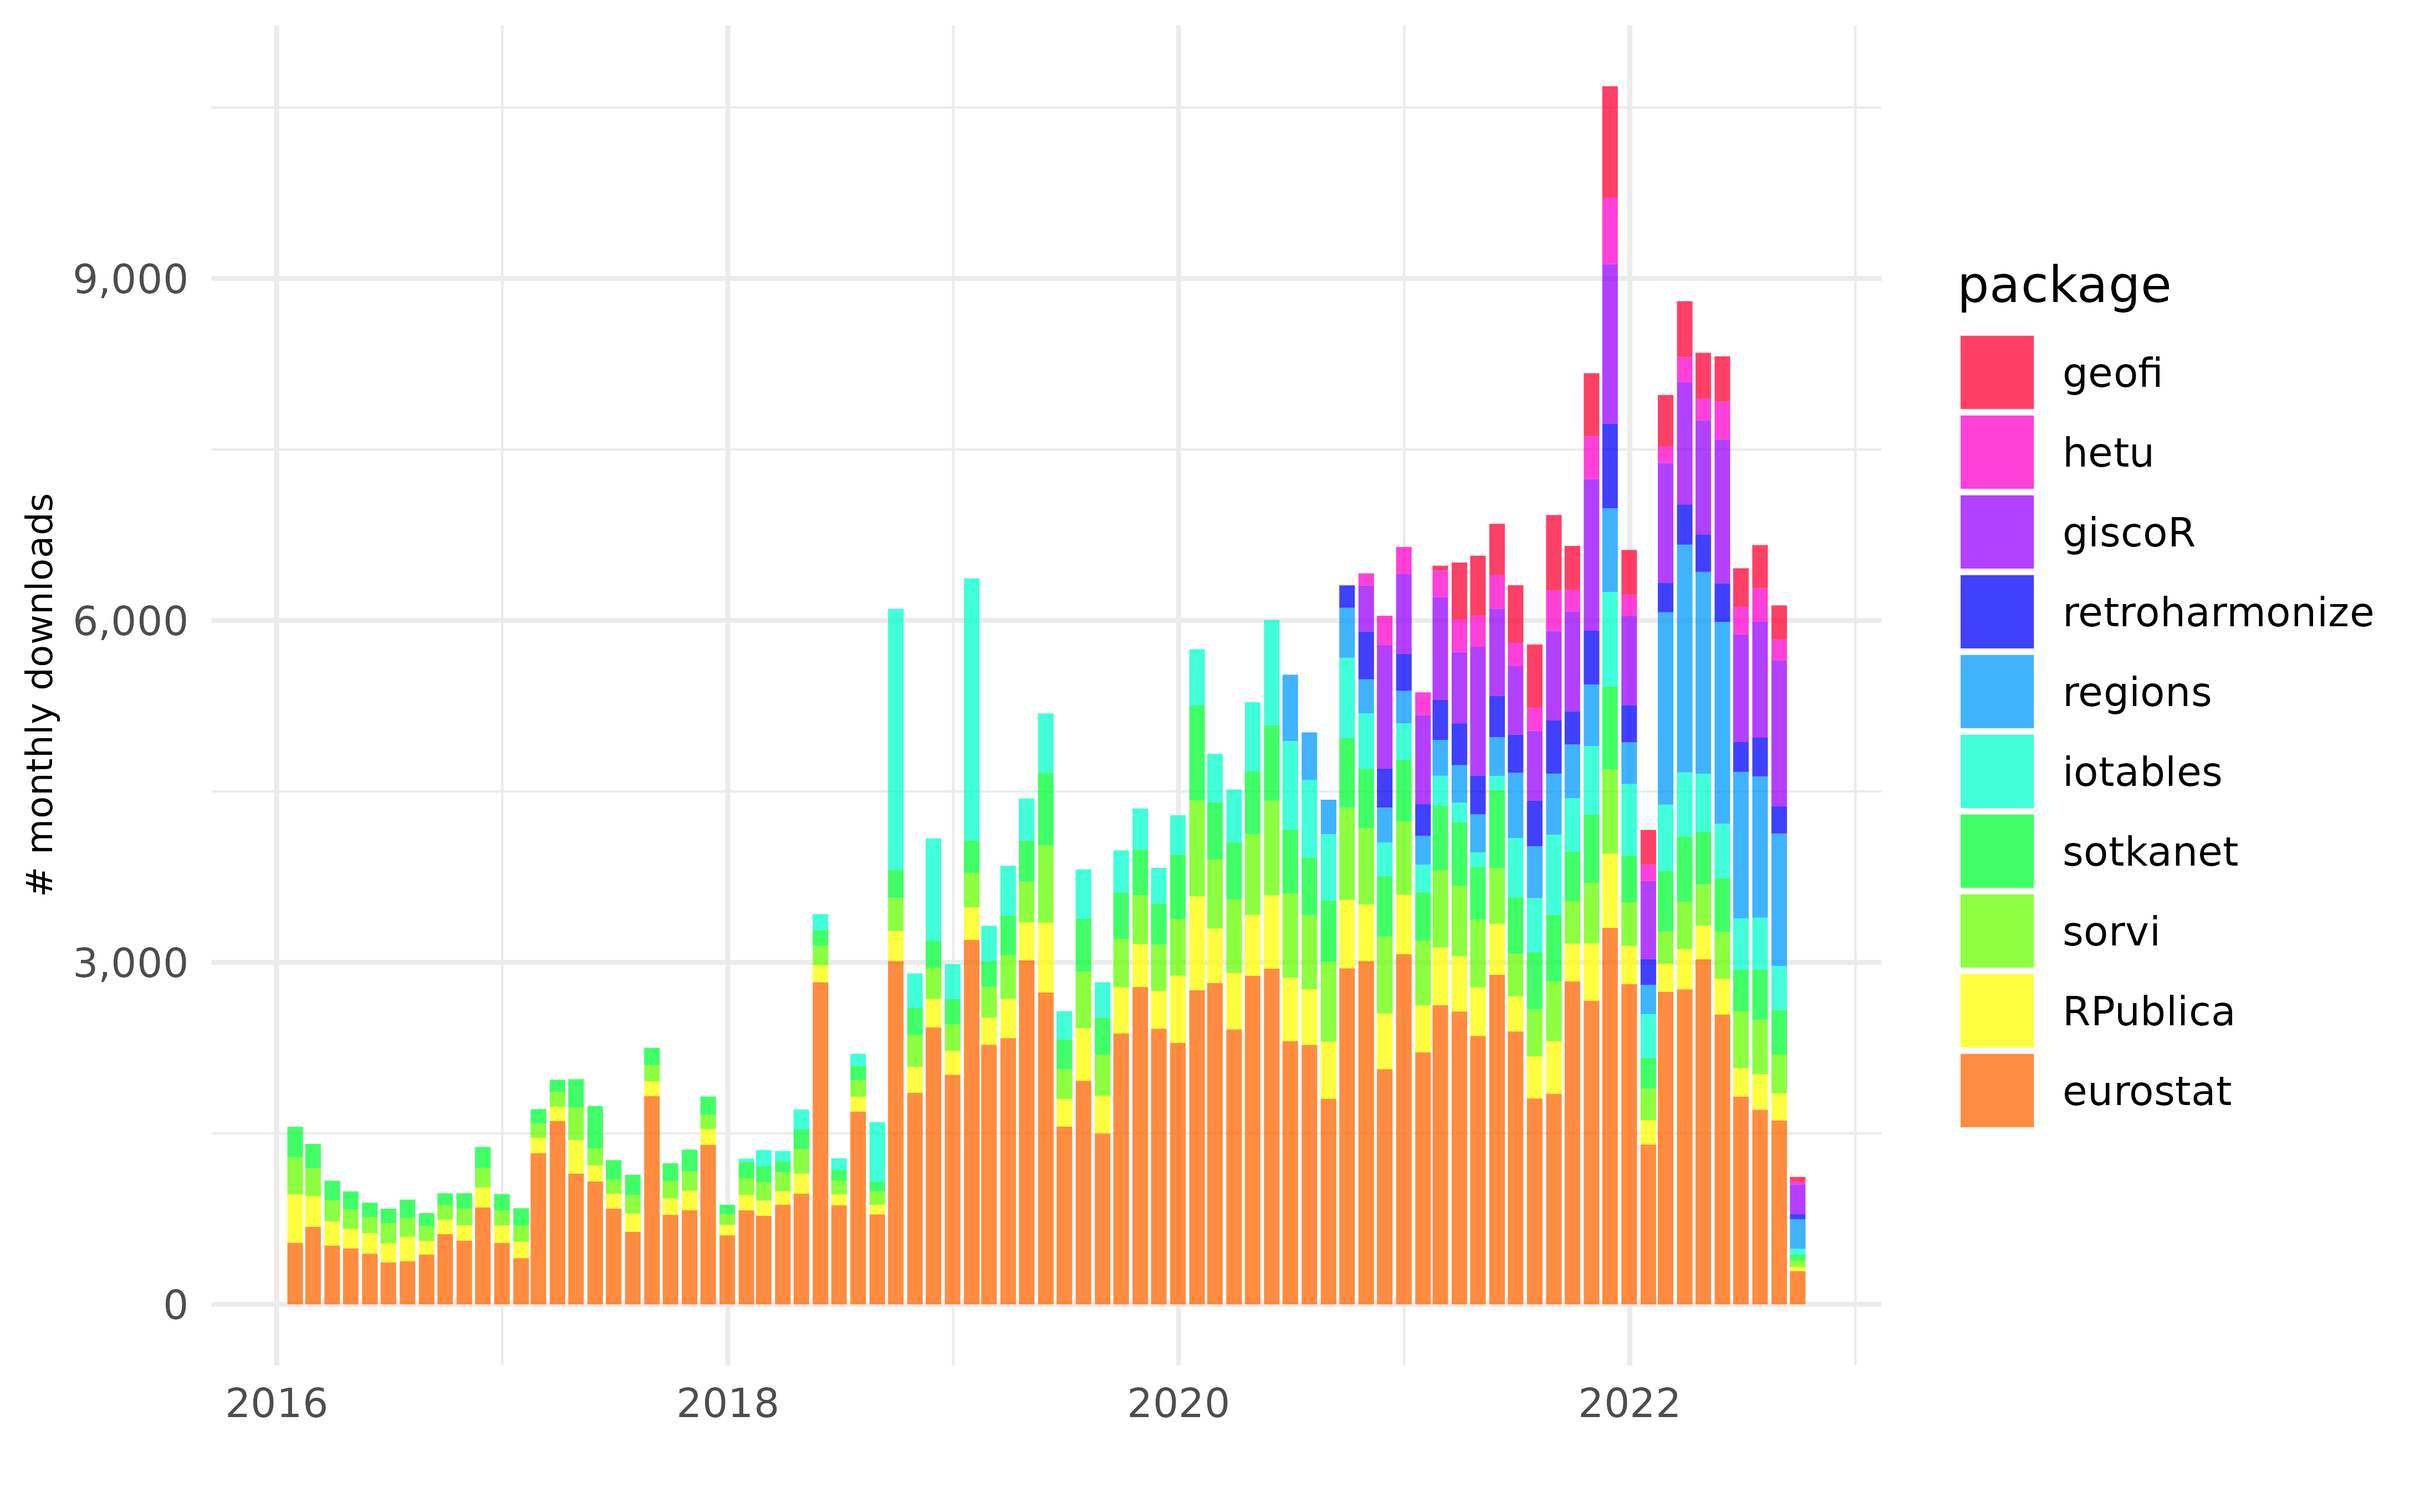
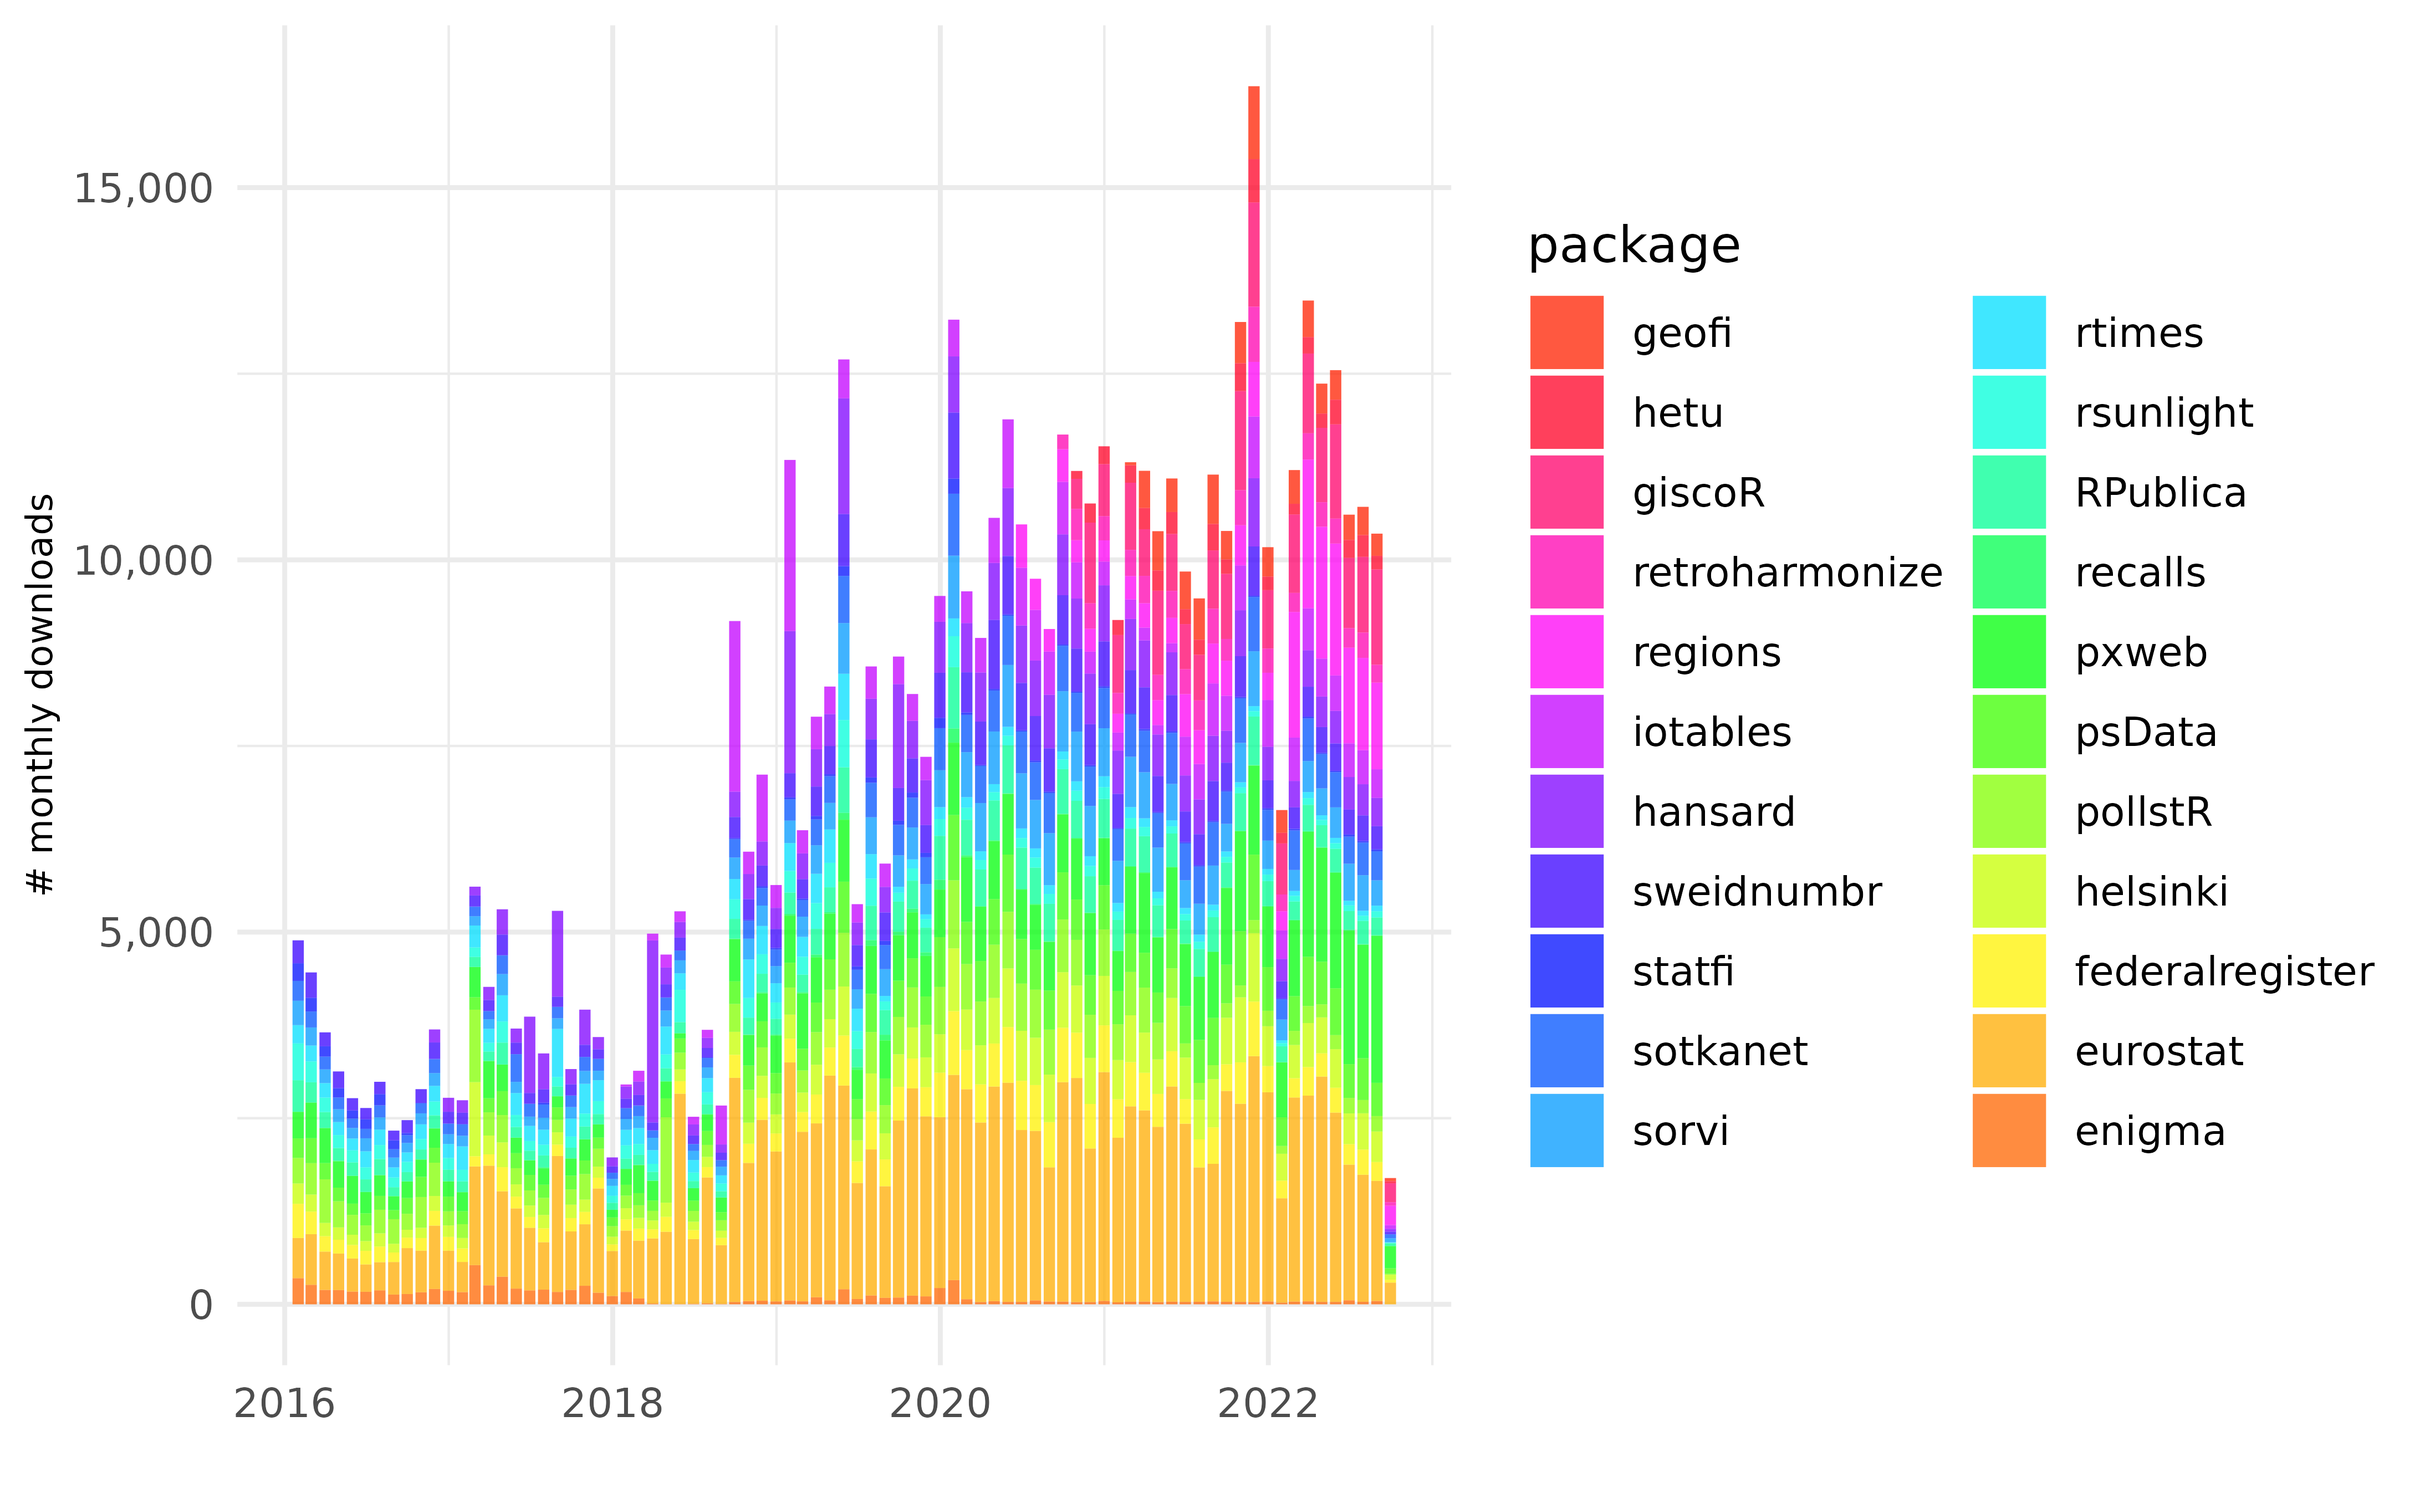
Built site for rogtemplate: 0.0.2.9000@6a3b9f4

diff --git a/articles/downloads.html b/articles/downloads.html
@@ -109,7 +109,7 @@
 <h2 id="data">Data<a class="anchor" aria-label="anchor" href="#data"></a>
 </h2>
 <div id="station-table" class="reactable html-widget" style="width:auto;height:auto;"></div>
-<script type="application/json" data-for="station-table">{"x":{"tag":{"name":"Reactable","attribs":{"data":{"package":["geofi","hetu","giscoR","retroharmonize","regions","iotables","eurostat","RPublica","sotkanet","sorvi"],"on CRAN":["2021-02-20","2020-10-15","2020-10-05","2020-09-21","2020-06-04","2018-01-30","2015-03-20","2014-05-09","2014-04-06","2013-09-30"],"avg daily downloads":[15.6,8.5,30.8,11.8,23.4,16.6,59.7,10.3,11.5,12.1],"last day":[7,6,46,8,88,7,95,6,5,7],"last week":[42,28,255,46,261,50,292,37,53,54],"last month":[276,162,1377,234,1200,357,1570,228,364,330],"last year":[5342,3067,12798,4161,13465,6294,29072,4021,5641,5062]},"columns":[{"accessor":"package","name":"package","type":"character"},{"accessor":"on CRAN","name":"on CRAN","type":"Date"},{"accessor":"avg daily downloads","name":"avg daily downloads","type":"numeric"},{"accessor":"last day","name":"last day","type":"numeric"},{"accessor":"last week","name":"last week","type":"numeric"},{"accessor":"last month","name":"last month","type":"numeric"},{"accessor":"last year","name":"last year","type":"numeric"}],"filterable":true,"searchable":true,"defaultPageSize":10,"showPageSizeOptions":true,"pageSizeOptions":[10,25,50,100],"paginationType":"jump","showPageInfo":true,"minRows":1,"striped":true,"elementId":"station-table","dataKey":"e8f99e6f3755a6b1a4a629f9b6feb216"},"children":[]},"class":"reactR_markup"},"evals":[],"jsHooks":[]}</script>
+<script type="application/json" data-for="station-table">{"x":{"tag":{"name":"Reactable","attribs":{"data":{"package":["geofi","hetu","giscoR","retroharmonize","regions","iotables","hansard","rtimes","eurostat","enigma","sweidnumbr","pxweb","rsunlight","RPublica","recalls","federalregister","pollstR","helsinki","sotkanet","psData","sorvi","statfi"],"on CRAN":["2021-02-20","2020-10-15","2020-10-05","2020-09-21","2020-06-04","2018-01-30","2016-10-31","2015-10-08","2015-03-20","2014-10-16","2014-09-05","2014-09-03","2014-08-19","2014-05-09","2014-05-09","2014-05-08","2014-05-01","2014-04-13","2014-04-06","2014-02-23","2013-09-30","2013-04-21"],"avg daily downloads":[15.6,8.5,30.8,11.8,23.4,16.6,18.1,7.1,59.7,6.1,11.7,21,6.2,10.3,2.6,11.5,13.4,13.2,11.5,12.8,12.1,3.7],"last day":[7,6,46,8,88,7,6,"NA",95,"NA",5,71,1,6,"NA",7,"NA",9,5,5,7,"NA"],"last week":[42,28,255,46,261,50,40,6,292,"NA",33,299,7,37,"NA",38,12,67,53,75,54,1],"last month":[276,162,1377,234,1200,357,342,67,1570,37,284,1875,75,228,8,242,178,393,364,434,330,20],"last year":[5342,3067,12798,4161,13465,6294,5593,800,29072,418,4538,16295,887,4021,94,4358,2183,6598,5641,6865,5062,235]},"columns":[{"accessor":"package","name":"package","type":"character"},{"accessor":"on CRAN","name":"on CRAN","type":"Date"},{"accessor":"avg daily downloads","name":"avg daily downloads","type":"numeric"},{"accessor":"last day","name":"last day","type":"numeric"},{"accessor":"last week","name":"last week","type":"numeric"},{"accessor":"last month","name":"last month","type":"numeric"},{"accessor":"last year","name":"last year","type":"numeric"}],"filterable":true,"searchable":true,"defaultPageSize":22,"showPageSizeOptions":true,"pageSizeOptions":[10,25,50,100],"paginationType":"jump","showPageInfo":true,"minRows":1,"striped":true,"elementId":"station-table","dataKey":"4c4e0bbbd101b52cbb5e28f557b67361"},"children":[]},"class":"reactR_markup"},"evals":[],"jsHooks":[]}</script>
 </div>
   </main><aside class="col-md-3"><nav id="toc"><h2>On this page</h2>
     </nav></aside>

diff --git a/index.html b/index.html
@@ -121,15 +121,17 @@
 <p>You can use <code><a href="reference/rog_actions_pkgdown_branch.html">rog_actions_pkgdown_branch()</a></code> for setting up the action described before but the deployment would be still performed by a GitHub action.</p>
 <p>For building locally your package into your <code>docs</code> folder use:</p>
 <div class="sourceCode" id="cb3"><pre class="downlit sourceCode r">
-<code class="sourceCode R"><span><span class="fu">rogtemplate</span><span class="fu">::</span><span class="fu"><a href="reference/rog_build.html">rog_build</a></span><span class="op">(</span><span class="op">)</span></span>
+<code class="sourceCode R"><span></span>
+<span><span class="fu">rogtemplate</span><span class="fu">::</span><span class="fu"><a href="reference/rog_build.html">rog_build</a></span><span class="op">(</span><span class="op">)</span></span>
 <span></span>
 <span><span class="co"># or you can use also</span></span>
 <span></span>
 <span><span class="fu">rogtemplate</span><span class="fu">::</span><span class="fu"><a href="reference/rog_add_template_pkgdown.html">rog_add_template_pkgdown</a></span><span class="op">(</span><span class="op">)</span></span>
 <span><span class="fu">pkgdown</span><span class="fu">::</span><span class="fu"><a href="https://pkgdown.r-lib.org/reference/build_site.html" class="external-link">build_site</a></span><span class="op">(</span><span class="op">)</span></span></code></pre></div>
 <p>Note that <code><a href="reference/rog_add_template_pkgdown.html">rogtemplate::rog_add_template_pkgdown()</a></code> creates a <code>_pkgdown.yml</code> file (or modify an existing one) with the following lines:</p>
-<div class="sourceCode" id="cb4"><pre class="sourceCode yaml"><code class="sourceCode yaml"><span id="cb4-1"><a href="#cb4-1" aria-hidden="true" tabindex="-1"></a><span class="fu">template</span><span class="kw">:</span></span>
-<span id="cb4-2"><a href="#cb4-2" aria-hidden="true" tabindex="-1"></a><span class="at">  </span><span class="fu">package</span><span class="kw">:</span><span class="at"> rogtemplate</span></span></code></pre></div>
+<div class="sourceCode" id="cb4"><pre class="sourceCode yaml"><code class="sourceCode yaml"><span id="cb4-1"><a href="#cb4-1" aria-hidden="true" tabindex="-1"></a></span>
+<span id="cb4-2"><a href="#cb4-2" aria-hidden="true" tabindex="-1"></a><span class="fu">template</span><span class="kw">:</span></span>
+<span id="cb4-3"><a href="#cb4-3" aria-hidden="true" tabindex="-1"></a><span class="at">  </span><span class="fu">package</span><span class="kw">:</span><span class="at"> rogtemplate</span></span></code></pre></div>
 <p>These lines tells <strong>pkgdown</strong> to use <strong>rogtemplate</strong>.</p>
 </div>
 </div>

diff --git a/reference/rog_logo.html b/reference/rog_logo.html
@@ -121,7 +121,7 @@ would run <code><a href="https://usethis.r-lib.org/reference/use_logo.html" clas
 <span class="r-in"><span><span class="va">tmp</span> <span class="op">&lt;-</span> <span class="fu"><a href="https://rdrr.io/r/base/tempfile.html" class="external-link">tempfile</a></span><span class="op">(</span>fileext <span class="op">=</span> <span class="st">".png"</span><span class="op">)</span></span></span>
 <span class="r-in"><span><span class="fu">rog_logo</span><span class="op">(</span><span class="st">"test a package"</span>, <span class="va">tmp</span>, overwrite <span class="op">=</span> <span class="cn">FALSE</span>, favicons <span class="op">=</span> <span class="cn">FALSE</span><span class="op">)</span></span></span>
 <span class="r-msg co"><span class="r-pr">#&gt;</span> B612 Mono font loaded</span>
-<span class="r-msg co"><span class="r-pr">#&gt;</span> Logo created on /tmp/Rtmpz2PXVg/file34e770ce0471.png</span>
+<span class="r-msg co"><span class="r-pr">#&gt;</span> Logo created on /tmp/RtmpmOrFiE/file310c6a3efe07.png</span>
 <span class="r-in"><span></span></span>
 <span class="r-in"><span><span class="co"># Display</span></span></span>
 <span class="r-in"><span><span class="va">logo</span> <span class="op">&lt;-</span> <span class="fu">magick</span><span class="fu">::</span><span class="fu"><a href="https://docs.ropensci.org/magick/reference/editing.html" class="external-link">image_read</a></span><span class="op">(</span><span class="va">tmp</span><span class="op">)</span></span></span>
